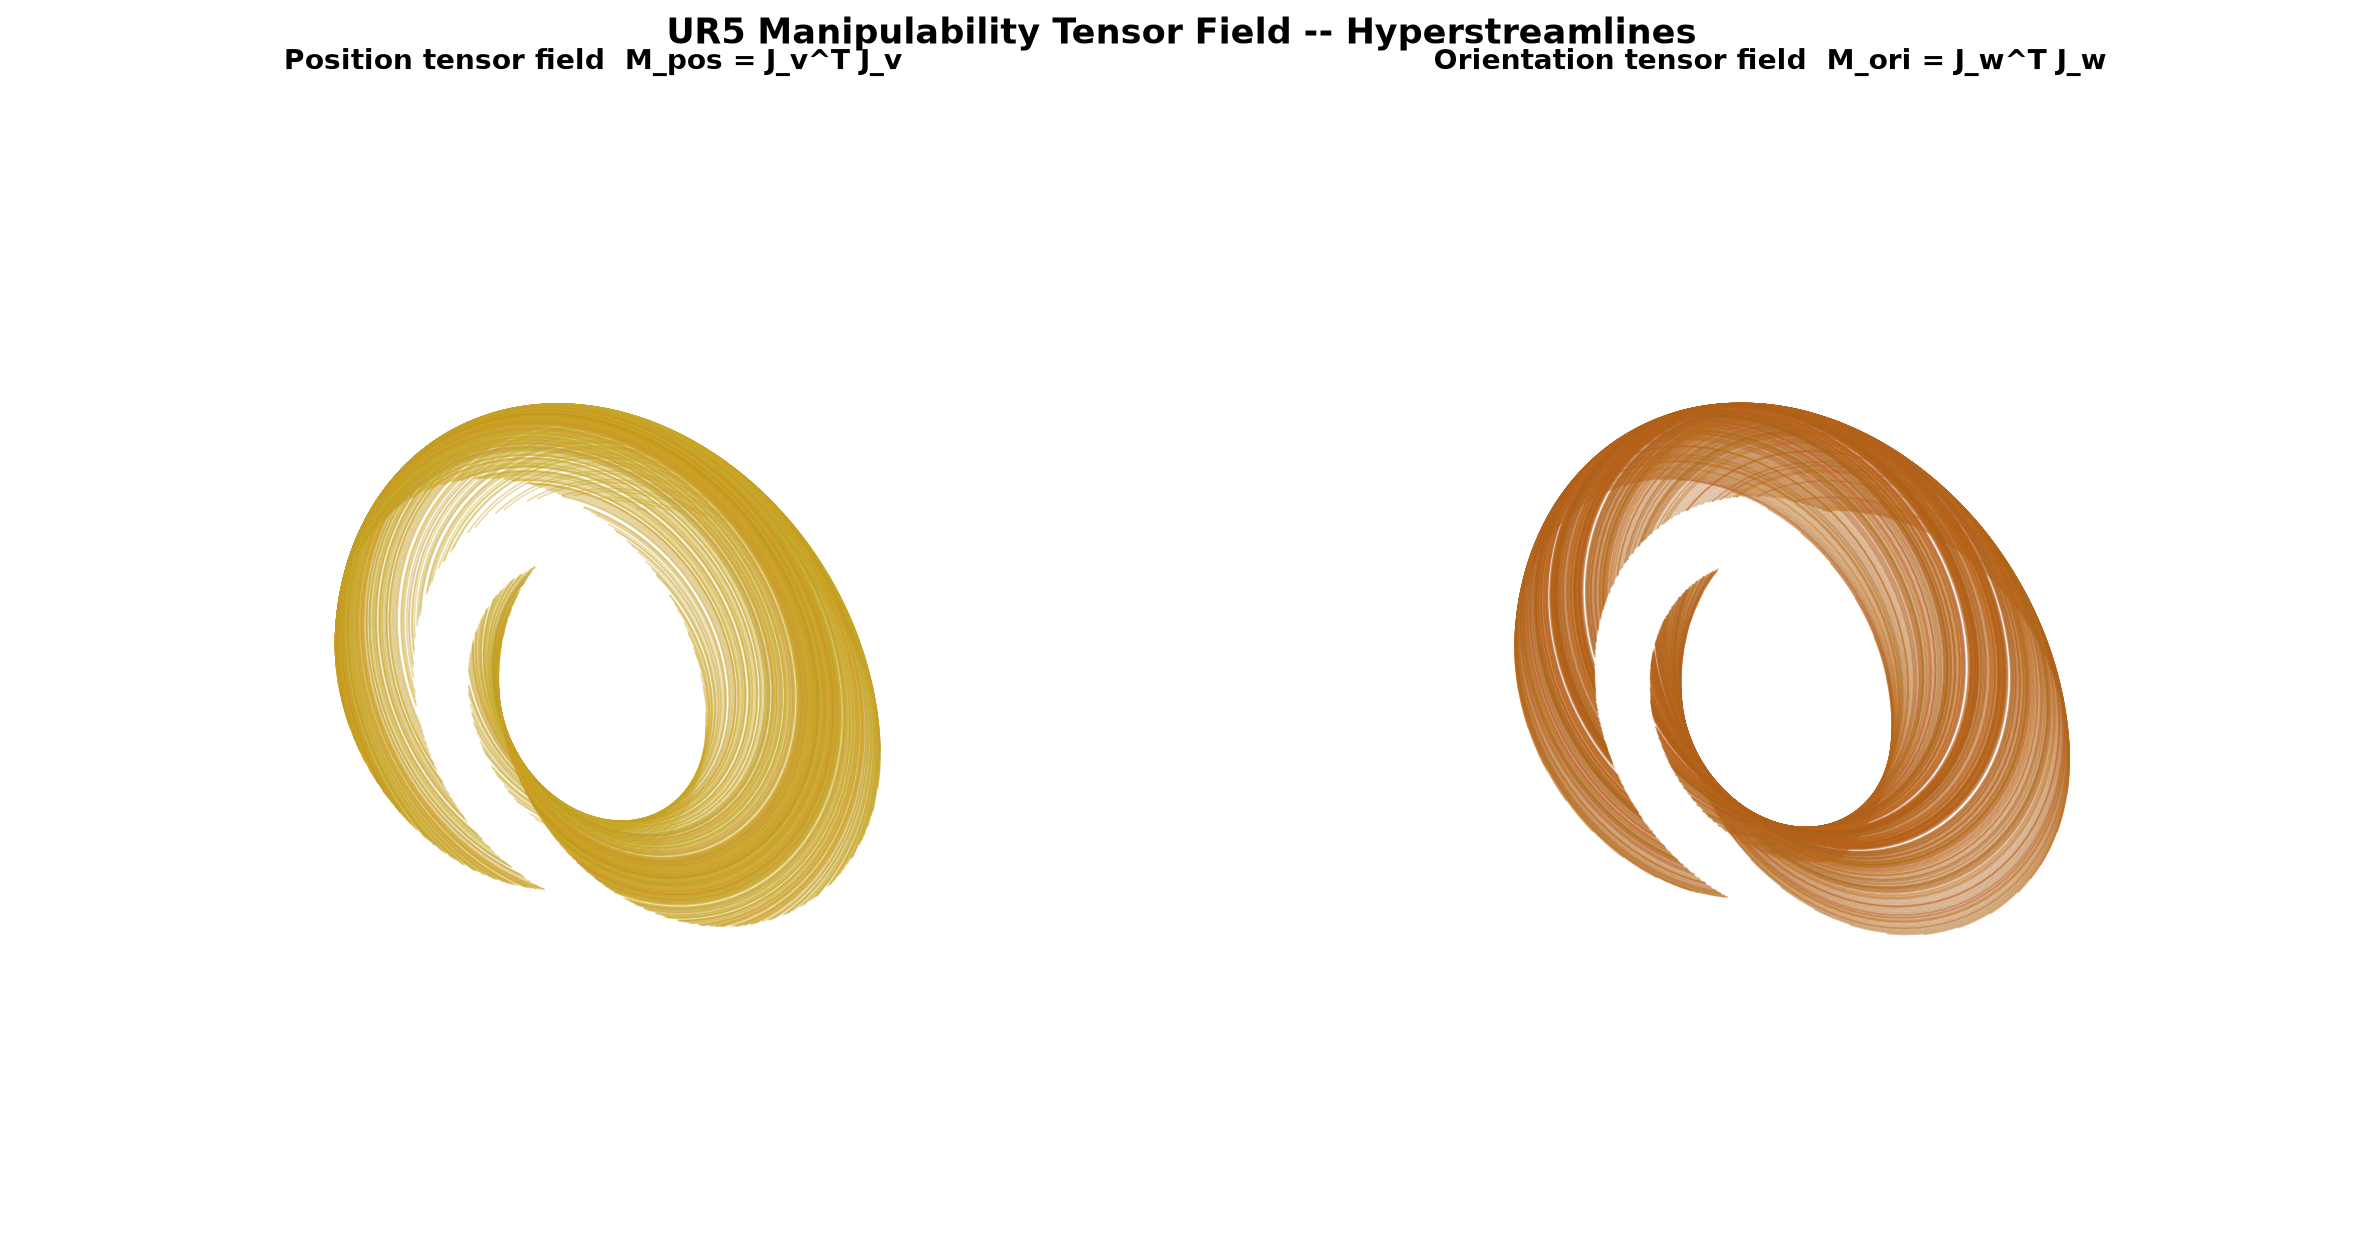
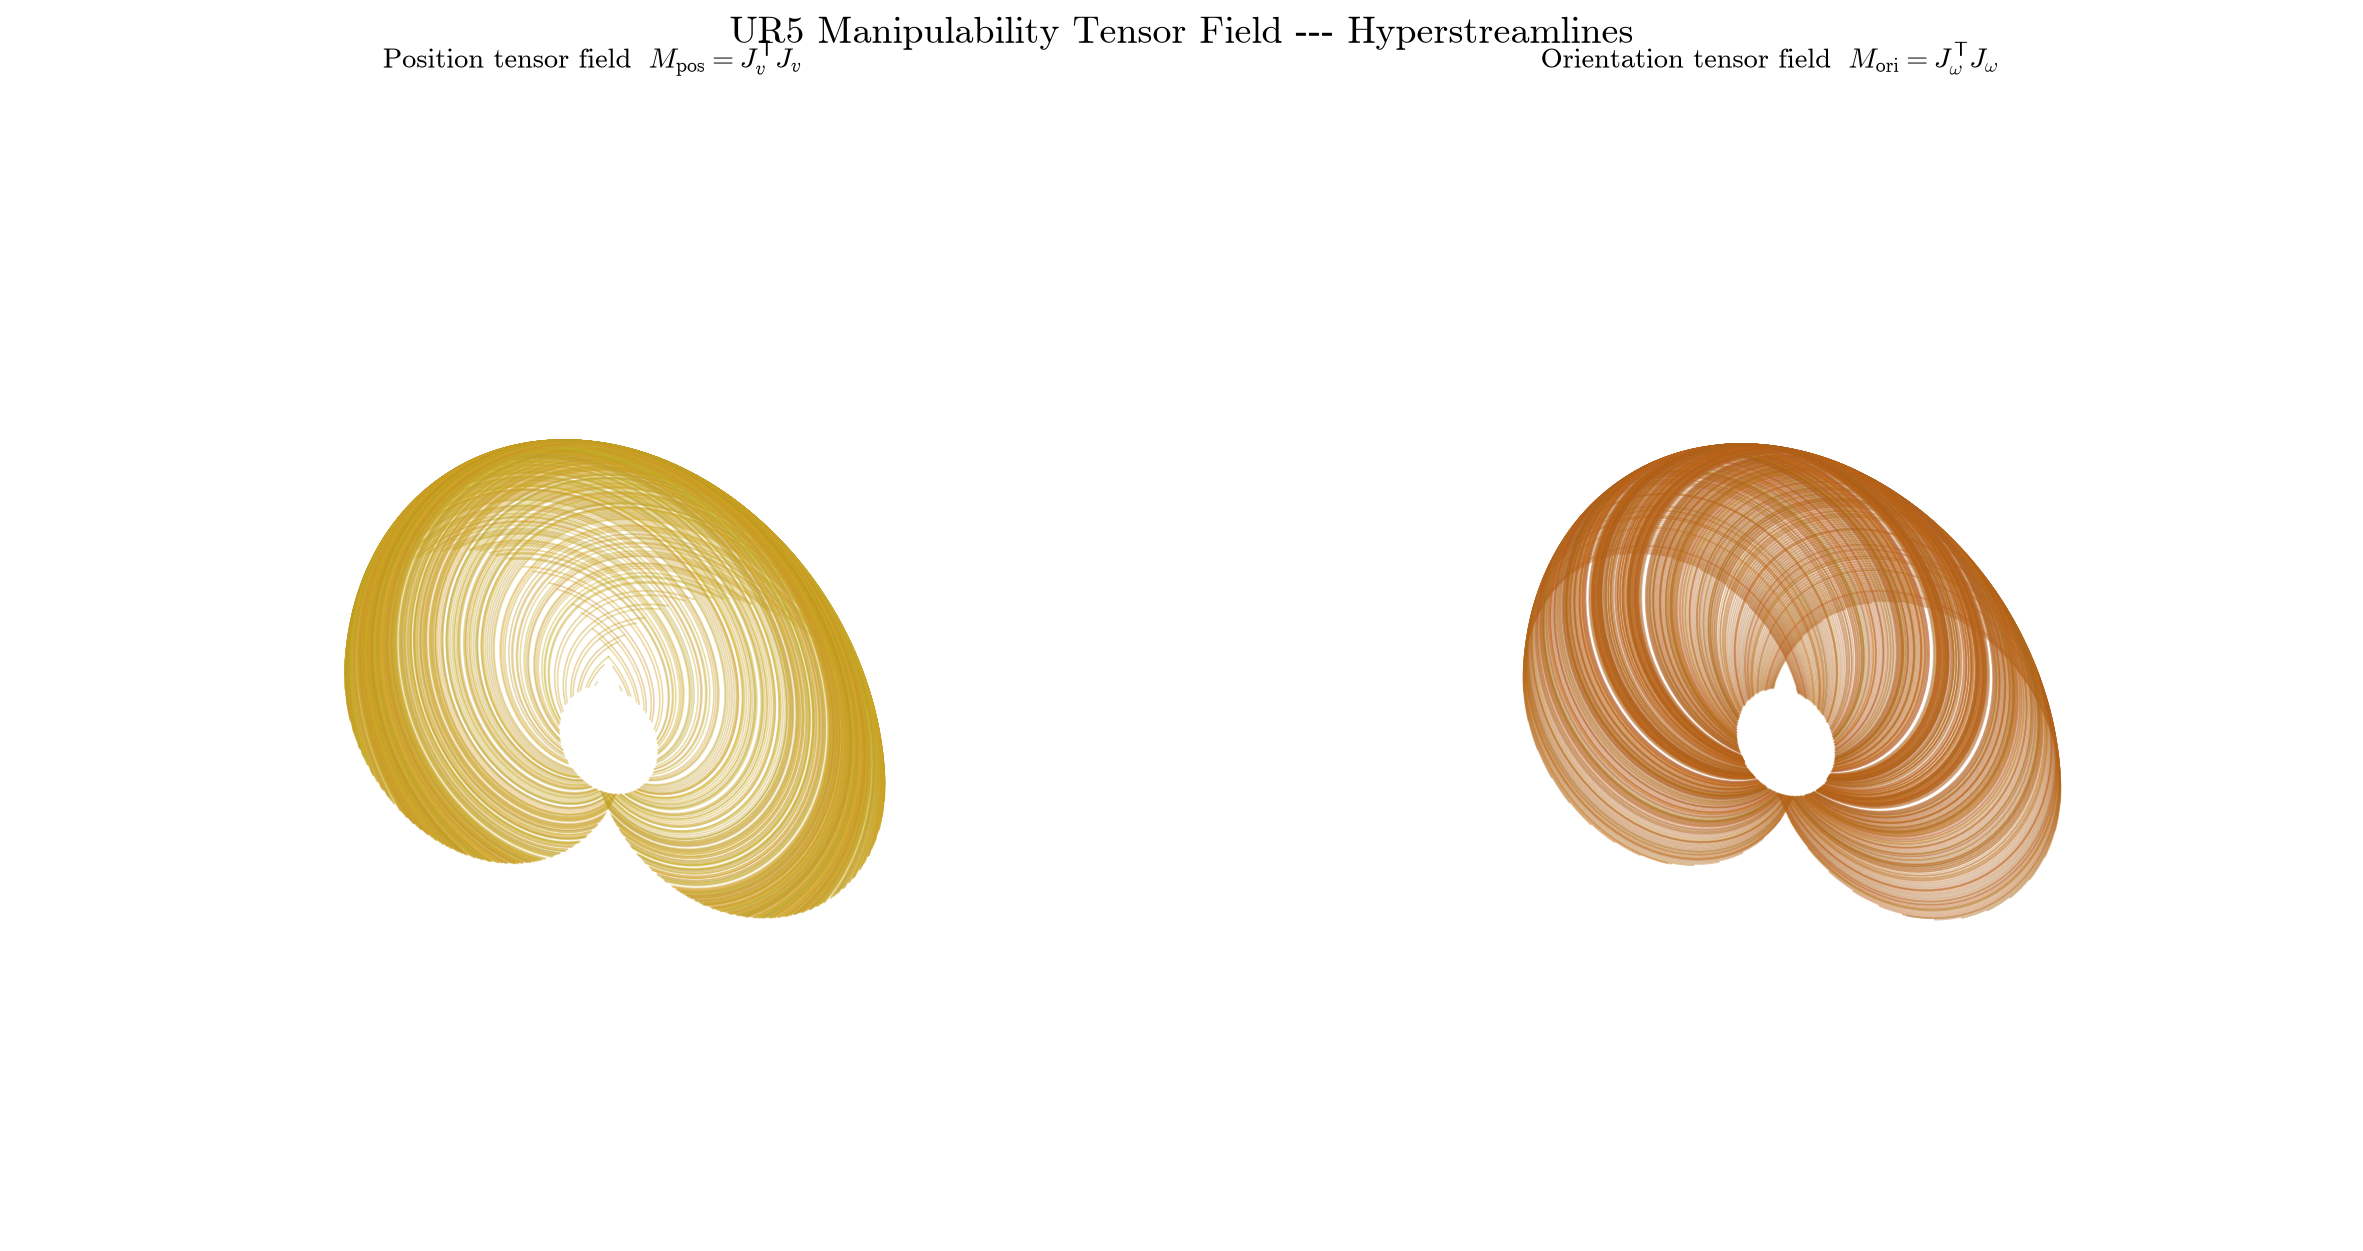
Use LaTeX-style (Computer Modern) fonts in the tensor field demos
Set mathtext.fontset=cm and font.family=serif (font.serif=cmr10) via
matplotlib's bundled Computer Modern font, and switch titles/labels to
proper LaTeX math syntax, so equations render with real math
typesetting instead of plain ASCII. No system LaTeX install required.

Claude-Session: https://claude.ai/code/session_01VpU3WyGik6PDS9fHhayekh

Changed region(s): [[0.6179, 0.3118, 0.8959, 0.7482], [0.1236, 0.3118, 0.4016, 0.7482], [0.1236, 0.0, 0.8959, 0.0624]]

diff --git a/Examples/intermediate_examples/manipulability_tensor_field_ur5_demo.py b/Examples/intermediate_examples/manipulability_tensor_field_ur5_demo.py
@@ -46,6 +46,16 @@ if "MPLBACKEND" not in os.environ:
 import matplotlib.pyplot as plt
 from mpl_toolkits.mplot3d import Axes3D  # noqa: F401 (registers 3-D projection)
 
+# LaTeX-style (Computer Modern) text via matplotlib's bundled cmr10 font, so
+# the figure renders the same everywhere without requiring a system LaTeX install.
+plt.rcParams.update({
+    "font.family": "serif",
+    "font.serif": ["cmr10", "STIXGeneral", "DejaVu Serif"],
+    "mathtext.fontset": "cm",
+    "axes.formatter.use_mathtext": True,
+    "axes.unicode_minus": False,
+})
+
 try:
     import ManipulaPy
 except ImportError:
@@ -204,12 +214,14 @@ def plot_index_tensor_fields(field_data, sweep_labels, ellipsoid_stride=4):
     extent = [q1_vals[0], q1_vals[-1], q2_vals[0], q2_vals[-1]]
 
     fig = plt.figure(figsize=(14, 12))
-    fig.suptitle("UR5 Manipulability Index Tensor Fields", fontsize=15, fontweight="bold")
+    fig.suptitle(r"UR5 Manipulability Index Tensor Fields", fontsize=16, fontweight="bold")
 
     # --- Scalar index heatmaps (joint-space slice) -------------------------------
     for pos, index_field, title, cmap in (
-        (1, field_data["pos_index"], "Position index  w_pos = sqrt(det(J_v J_v^T))", "viridis"),
-        (2, field_data["ori_index"], "Orientation index  w_ori = sqrt(det(J_w J_w^T))", "magma"),
+        (1, field_data["pos_index"],
+         r"Position index $\;w_{\mathrm{pos}} = \sqrt{\det(J_v J_v^{\mathsf{T}})}$", "viridis"),
+        (2, field_data["ori_index"],
+         r"Orientation index $\;w_{\mathrm{ori}} = \sqrt{\det(J_\omega J_\omega^{\mathsf{T}})}$", "magma"),
     ):
         ax = fig.add_subplot(2, 2, pos)
         im = ax.imshow(
@@ -224,17 +236,19 @@ def plot_index_tensor_fields(field_data, sweep_labels, ellipsoid_stride=4):
     ee_positions = field_data["ee_positions"]
     for pos, tensor_field, index_field, title, cmap in (
         (3, field_data["pos_tensor_field"], field_data["pos_index"],
-         "Position tensor field (ellipsoid = J_v J_v^T @ EE position)", "viridis"),
+         r"Position tensor field $\left(\mathrm{ellipsoid} = J_v J_v^{\mathsf{T}}\;@\;\mathrm{EE\ position}\right)$",
+         "viridis"),
         (4, field_data["ori_tensor_field"], field_data["ori_index"],
-         "Orientation tensor field (ellipsoid = J_w J_w^T @ EE position)", "magma"),
+         r"Orientation tensor field $\left(\mathrm{ellipsoid} = J_\omega J_\omega^{\mathsf{T}}\;@\;\mathrm{EE\ position}\right)$",
+         "magma"),
     ):
         ax = fig.add_subplot(2, 2, pos, projection="3d")
         mappable = plot_3d_tensor_field(
             ax, ee_positions, tensor_field, index_field, cmap, stride=ellipsoid_stride,
         )
-        ax.set_xlabel("X (m)")
-        ax.set_ylabel("Y (m)")
-        ax.set_zlabel("Z (m)")
+        ax.set_xlabel(r"$X$ (m)")
+        ax.set_ylabel(r"$Y$ (m)")
+        ax.set_zlabel(r"$Z$ (m)")
         ax.set_title(title, fontweight="bold")
         fig.colorbar(mappable, ax=ax, shrink=0.6, label="Manipulability index")
 
@@ -278,7 +292,9 @@ def main() -> None:
 
     plot_index_tensor_fields(
         field_data,
-        sweep_labels=("shoulder_lift (rad)", "elbow (rad)"),
+        # Computer Modern's OT1 encoding has no plain-text underscore glyph
+        # (it renders as a stray mark), so avoid underscores outside math mode.
+        sweep_labels=("shoulder lift (rad)", "elbow (rad)"),
     )
 
     print("\nDone.")

diff --git a/Examples/intermediate_examples/manipulability_hyperstreamlines_ur5_demo.py b/Examples/intermediate_examples/manipulability_hyperstreamlines_ur5_demo.py
@@ -49,6 +49,16 @@ if "MPLBACKEND" not in os.environ:
 import matplotlib.pyplot as plt
 from mpl_toolkits.mplot3d import Axes3D  # noqa: F401 (registers 3-D projection)
 
+# LaTeX-style (Computer Modern) text via matplotlib's bundled cmr10 font, so
+# the figure renders the same everywhere without requiring a system LaTeX install.
+plt.rcParams.update({
+    "font.family": "serif",
+    "font.serif": ["cmr10", "STIXGeneral", "DejaVu Serif"],
+    "mathtext.fontset": "cm",
+    "axes.formatter.use_mathtext": True,
+    "axes.unicode_minus": False,
+})
+
 try:
     import ManipulaPy
 except ImportError:
@@ -285,11 +295,13 @@ def main() -> None:
 
     fig = plt.figure(figsize=(14, 7.5))
     fig.patch.set_facecolor("white")
-    fig.suptitle("UR5 Manipulability Tensor Field -- Hyperstreamlines", fontsize=15, fontweight="bold")
+    fig.suptitle(r"UR5 Manipulability Tensor Field --- Hyperstreamlines", fontsize=16, fontweight="bold")
 
     for pos, tensor_key, color, title in (
-        (1, "pos_tensor", "#c9a227", "Position tensor field  M_pos = J_v^T J_v"),
-        (2, "ori_tensor", "#b5651d", "Orientation tensor field  M_ori = J_w^T J_w"),
+        (1, "pos_tensor", "#c9a227",
+         r"Position tensor field $\;M_{\mathrm{pos}} = J_v^{\mathsf{T}} J_v$"),
+        (2, "ori_tensor", "#b5651d",
+         r"Orientation tensor field $\;M_{\mathrm{ori}} = J_\omega^{\mathsf{T}} J_\omega$"),
     ):
         print(f"Integrating hyperstreamlines for: {title}")
         streamlines_3d = build_hyperstreamlines(field_data, tensor_key, sweep_joints)
